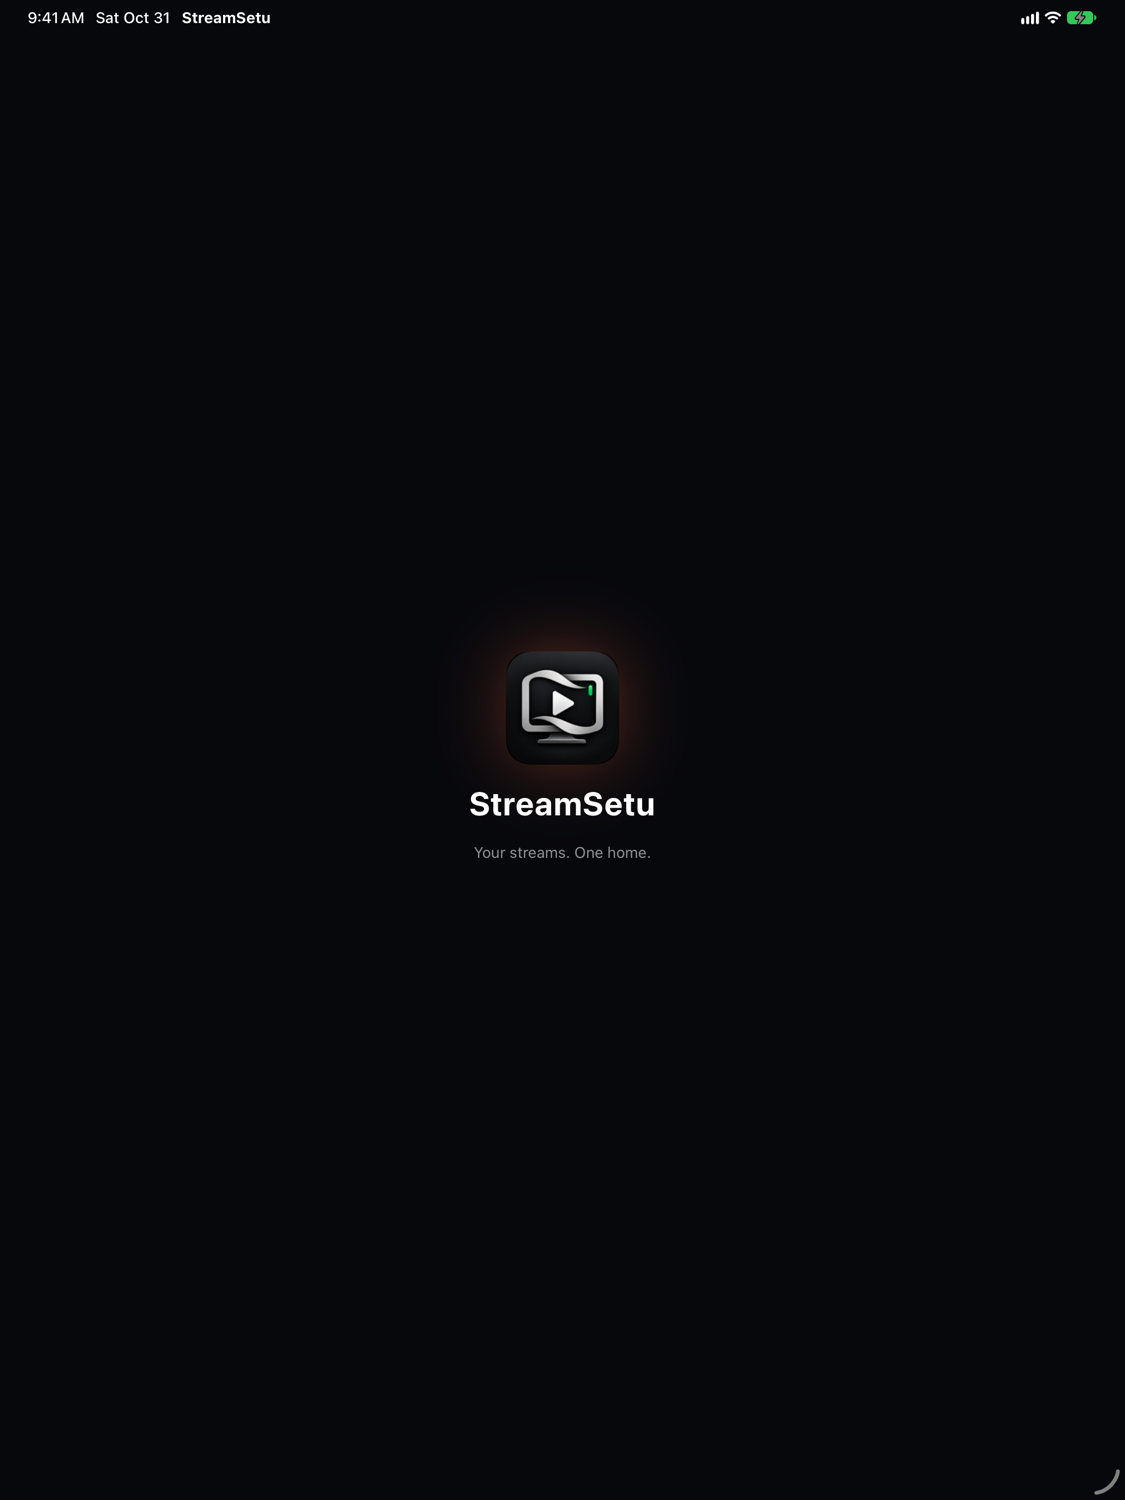
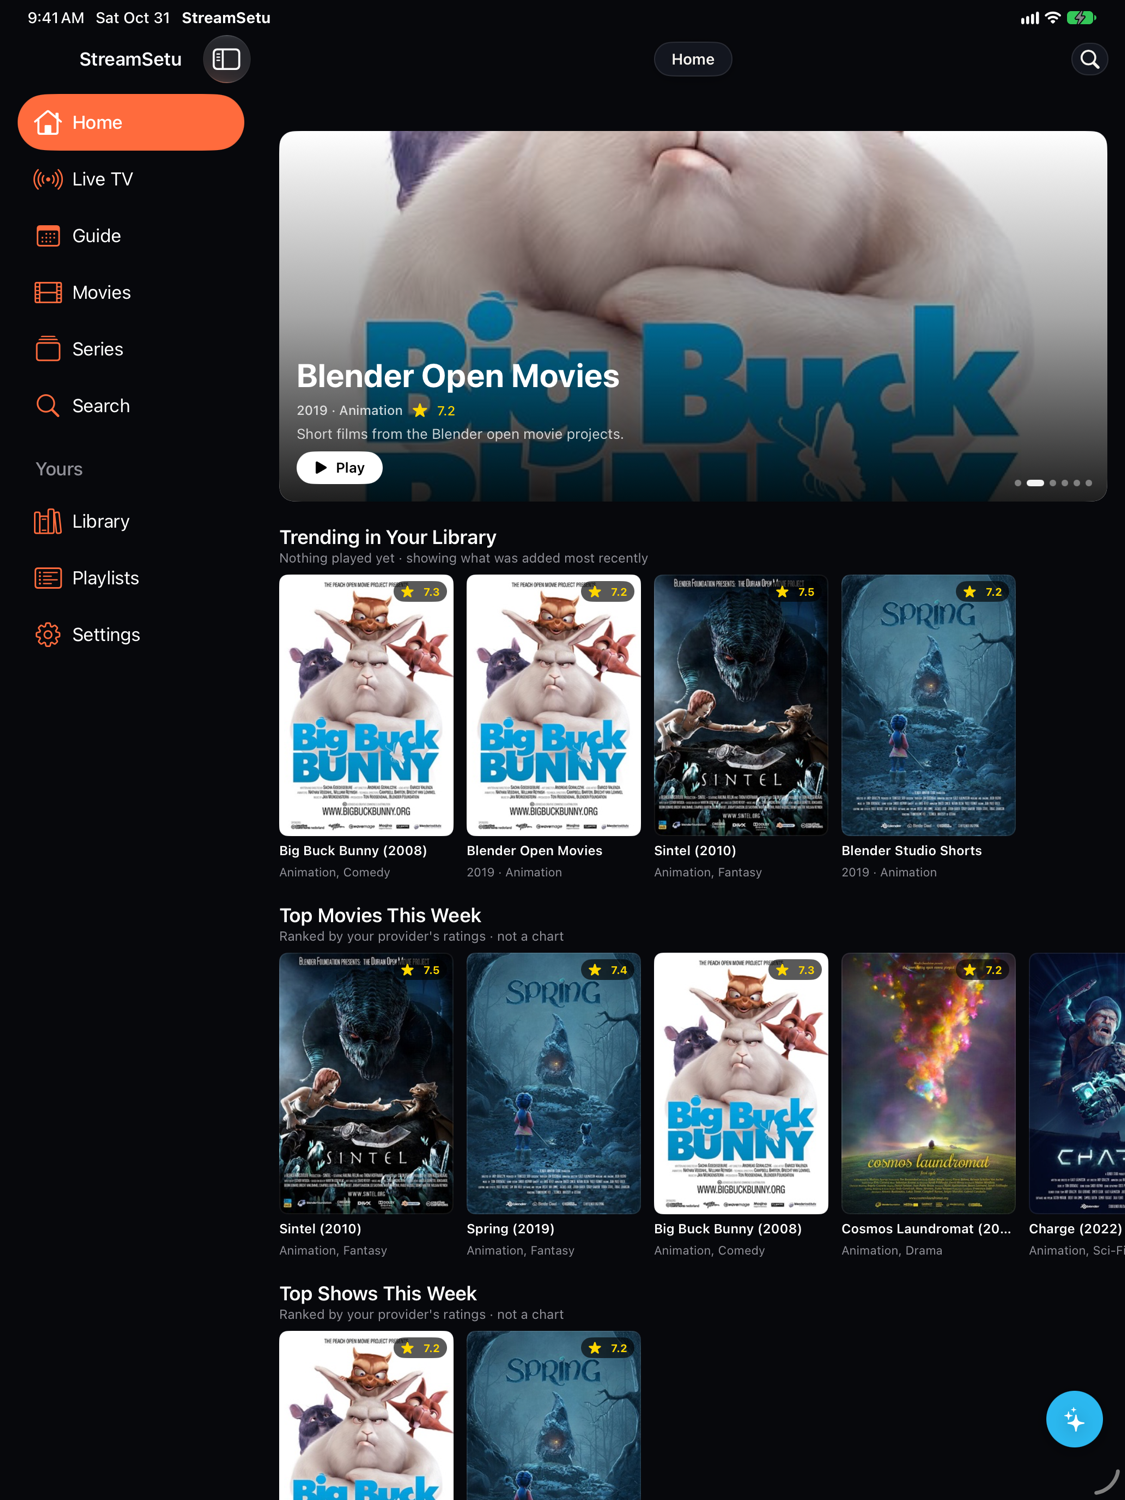
README: the iPhone and iPad pictures show Home, not the splash screen
The two pictures added in the last change were taken before the app had finished opening, so they showed the splash screen. They are retaken with Home on screen. The listing-pictures UI test now waits for Home's rows (and the posters) before taking its first picture, so it cannot save the splash screen again.

diff --git a/ios/StreamSetuUITests/ListingPicturesTests.swift b/ios/StreamSetuUITests/ListingPicturesTests.swift
@@ -32,6 +32,9 @@ final class ListingPicturesTests: XCTestCase {
             sleep(6)                                                     // posters and guide arrive
         }
         dismissAlerts()
+        // Home has loaded when its rows are on screen; the first picture is taken only then (the splash screen is still up for a moment after launch).
+        XCTAssertTrue(app.staticTexts["Trending in Your Library"].waitForExistence(timeout: 30) || app.staticTexts["Top Movies This Week"].waitForExistence(timeout: 5), "Home did not load\n\(app.debugDescription)")
+        sleep(4)                                                         // the posters arrive
         shot("1-home")
 
         // On an iPad the destinations are in the sidebar; on an iPhone, in the tab bar.
